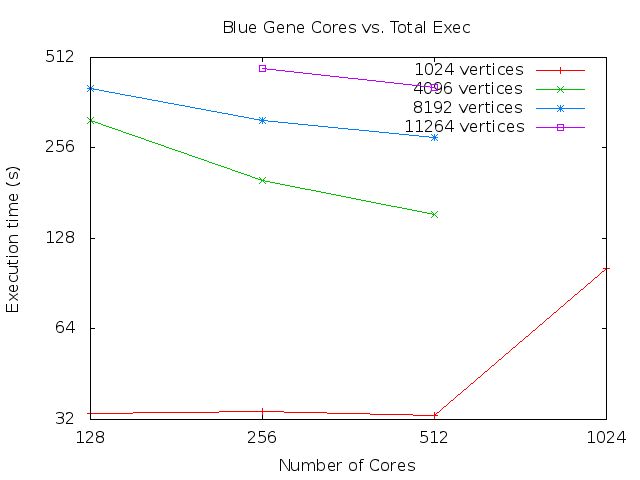
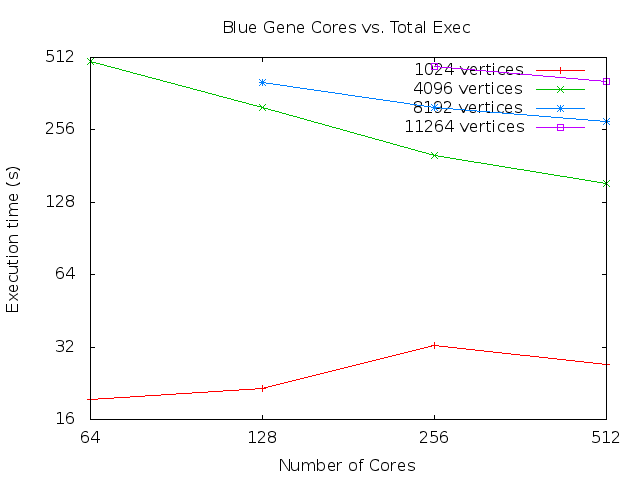
New results

diff --git a/scripts/compile.rb b/scripts/compile.rb
@@ -11,11 +11,12 @@ File.open(ARGV[0]) do |f|
     # Graph 0 - Bluegene with x:cores, y:time, series:[1024, 4096, 8192, 11264]
     g = {}
     runs.each do |run|
-        if run['System'] == 'Bluegene' and (run['VN?'] == 'no' or run['Graph'] == '1024')
+        if run['System'] == 'Bluegene' and run['VN?'] == 'no' and run['Ants'] == '512'
             g[run['Cores']] ||= {}
             g[run['Cores']][run['Graph'].to_i] = run['Total']
         end
     end
+    puts g
     graphs << g
 
     # Graph 1 - Kratos with x:cores, y:time, series:[clustering, distance, round_robin] where graph_size=4096
